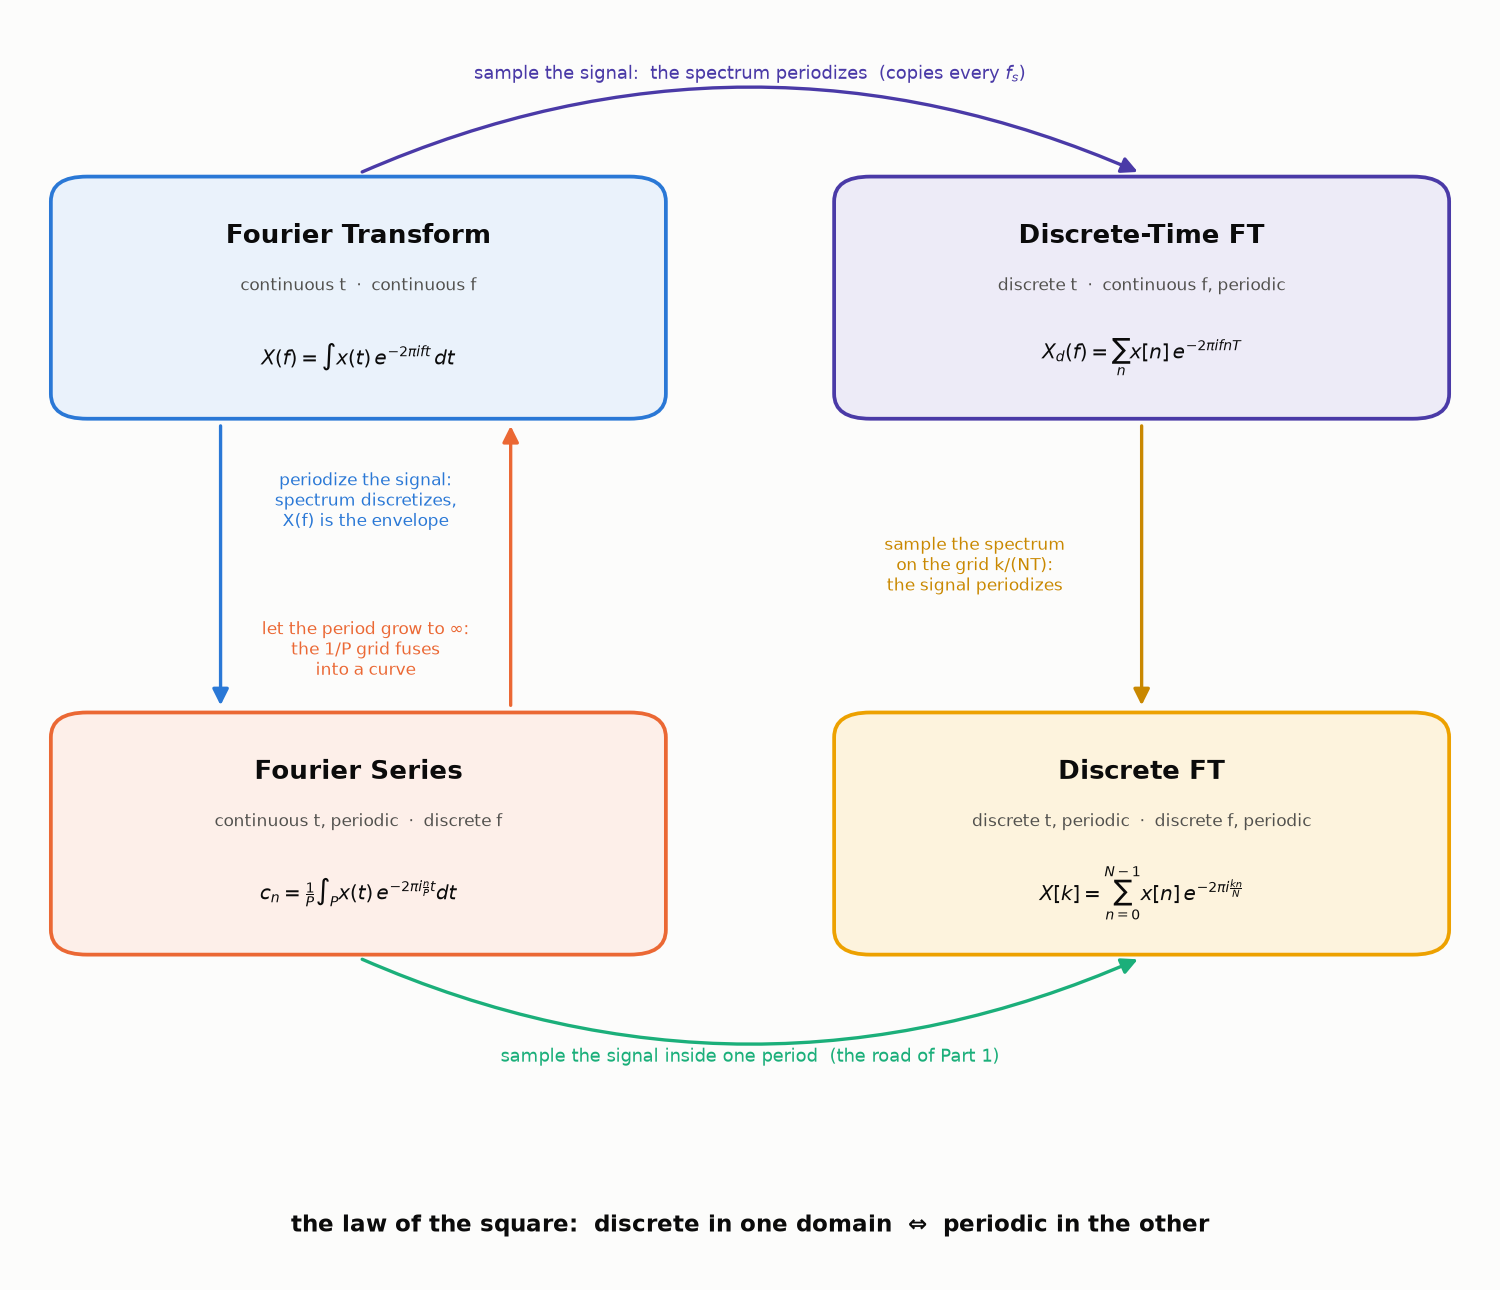
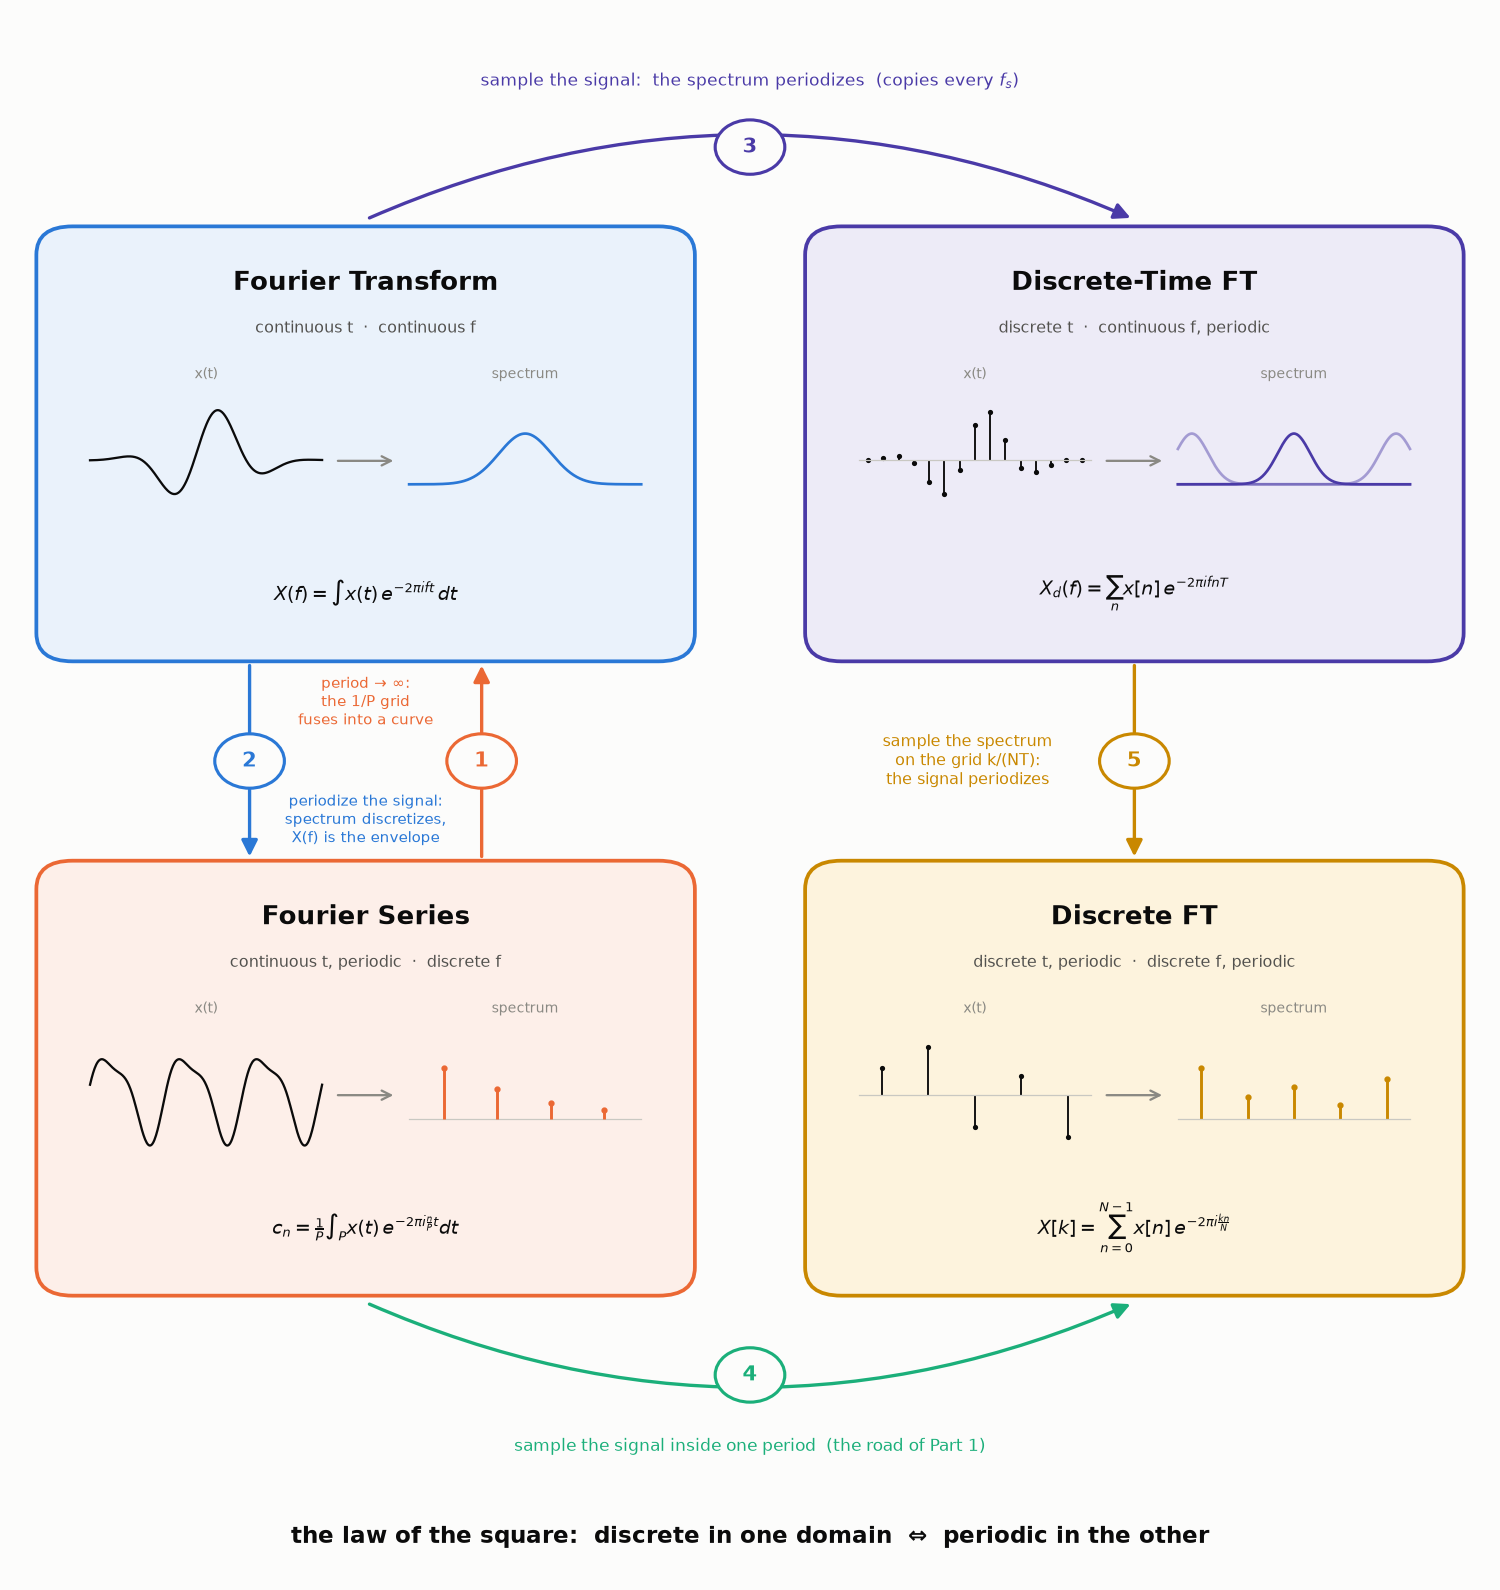
Merge the teaser table and the bridge map into one figure, shown at the top and revisited at the end
Quadrants carry the mini signal-to-spectrum pictograms from the old
SVG; the five bridges are numbered in walking order and match the
renamed section headers (Bridge N: X to Y). The intro SVG leaves the
bundle.

diff --git a/content/posts/four-shades-of-fourier/index.md b/content/posts/four-shades-of-fourier/index.md
@@ -19,9 +19,12 @@ the payoff of that teaser: we meet the remaining shades — the Fourier
 build *every bridge between the four*. None of the four is an axiom; each
 is another one pushed through a limit, a sampling, or a periodization.
 
+Here is the whole map at once — the four shades in their corners, and the
+five bridges numbered in the order we will cross them:
+
 <a id="the-square"></a>
 
-![Four Shades of Fourier](four_shades_of_fourier.svg)
+![The map: four shades of Fourier and the five numbered bridges between them](shades_map.png)
 
 Two conventions carried over from the trilogy: frequencies live in hertz
 (the exponentials are $e^{\pm 2 \pi i f t}$, no loose $\omega$'s), and all
@@ -50,7 +53,7 @@ $$
 Continuous periodic time, discrete frequency. The other three shades we
 will *construct* — from this one.
 
-## Bridge one: let the period go to infinity
+## Bridge one: Fourier series → Fourier transform
 
 The series serves periodic signals only. What about a signal that never
 repeats — a single pulse, a spoken sentence, anything from the real world?
@@ -141,7 +144,7 @@ follows immediately for integrable inputs.
 
 </details>
 
-## Bridge two: the transform is the envelope of the series
+## Bridge two: Fourier transform → Fourier series
 
 Now walk the same bridge in the opposite direction — it reveals something
 the limit hid. Take an *aperiodic* signal $x(t)$ of finite extent (finite
@@ -209,7 +212,7 @@ period — $\frac{1}{P}$ hertz between harmonics. The bridge we have just
 crossed is the *left edge* of [our map](#the-square) — and by the end of
 this post the same law will run every road on it.
 
-## Bridge three: sample the signal — the DTFT
+## Bridge three: Fourier transform → DTFT
 
 So far both shades live on continuous time. Enter the sampled world —
 through the honest gate built in Part 1: a discrete signal is the analog
@@ -299,7 +302,7 @@ frequency.
 
 Periodicity is only half the story. The other half is *what exactly* one
 period of $X_d$ contains — and here [bridge
-two](#bridge-two-the-transform-is-the-envelope-of-the-series) pays an
+two](#bridge-two-fourier-transform--fourier-series) pays an
 unexpected dividend: its envelope formula, $c_n = \frac{1}{P}
 X\!\left(\frac{n}{P}\right)$, is about to be reused with the roles of time
 and frequency swapped. Consider the periodization of the original spectrum
@@ -350,7 +353,7 @@ from being written out. If the copies do overlap (bottom row), they add up
 where they collide, and no cutting recovers $X$ — aliasing, the theorem's
 dark twin, again exactly as promised.
 
-## Bridge four: sample the signal inside one period — the DFT
+## Bridge four: Fourier series → DFT
 
 The fourth shade needs no new work at all: it is the road
 [Part 1](/posts/fourier-series-to-spectrogram-part-1/#from-the-series-to-the-dft)
@@ -378,7 +381,7 @@ DFT*,](/posts/fourier-series-to-spectrogram-part-2/) first met both faces
 of the law — by direct computation, before any general principle was in
 sight.
 
-## Bridge five: sample the spectrum — DTFT → DFT
+## Bridge five: DTFT → DFT
 
 One connection remains: the two discrete-time shades. The DTFT of a finite
 recording ($x[n] = 0$ outside $0, \dots, N-1$) is a continuous periodic
@@ -408,11 +411,12 @@ smuggles in. (Bridges four and five agree to the letter:
 $c_k = \frac{1}{NT} X_d(f_k)$ — the envelope relation of bridge two, one
 floor down the table.)
 
-## The map
+## The map, walked
 
-Here is the whole square, with every road labeled:
+Here is [the same map from the top of the post](#the-square) once more —
+only now every road on it has been built underfoot:
 
-![The four shades and the five bridges between them](shades_map.png)
+![The map again: four shades and five bridges, all of them now crossed](shades_map.png)
 
 One law runs every road: **discrete in one domain ⇔ periodic in the
 other** — and quantitatively, a period of $A$ in one domain forces a grid
